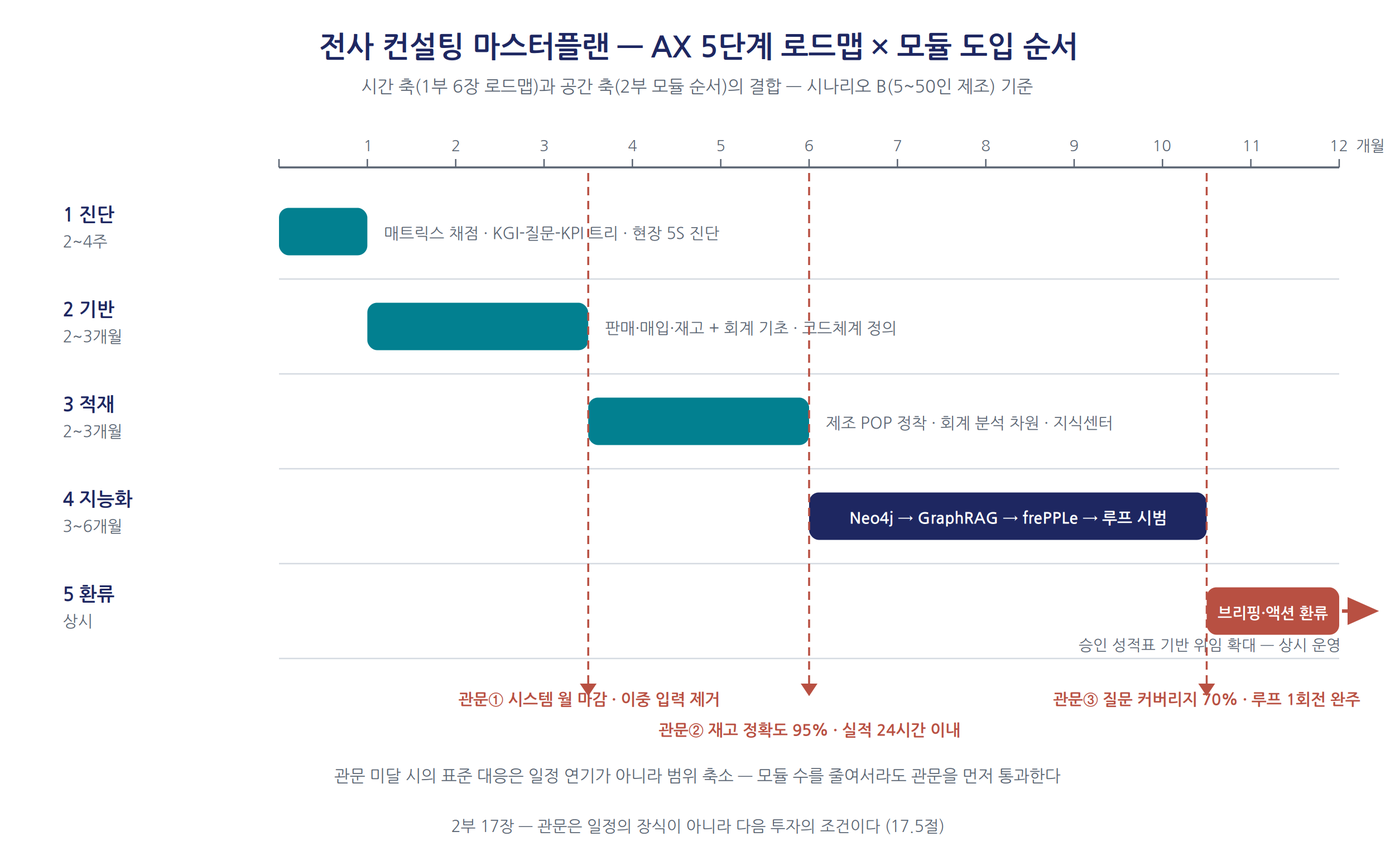
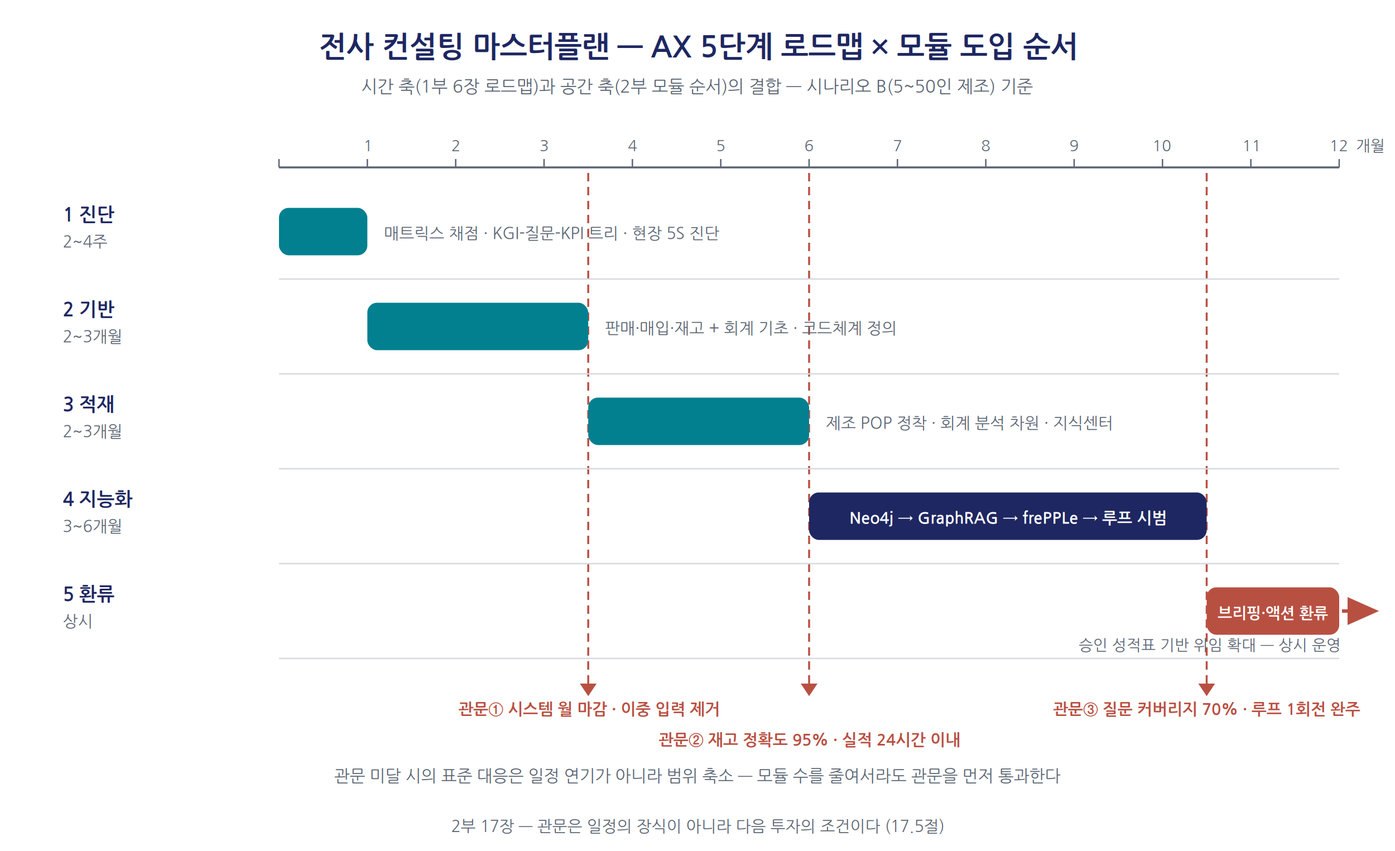
3순위 도해: 18~23장 12점 제작·삽입
Claude-Session: https://claude.ai/code/session_01A918KTHHAqBxQYk5d7SYyG

Changed region(s): [[0.312, 0.8013, 0.6864, 0.8938], [0.7488, 0.8013, 0.9672, 0.863]]

diff --git a/book/v2/figures/make_figures3_b1.py b/book/v2/figures/make_figures3_b1.py
@@ -326,7 +326,7 @@ def fig_122():
             else:
                 b.append(rrect(x, ry, 128, 76, ICE, NAVY, 1.2, 4))
                 b.append(text(x+64, ry+44, code, 12.5, NAVY, "bold"))
-    b.append(text(lx+150+2*136+64, ly+426, "선반마다 번지 라벨(바코드) 부착", 11.5, GRAY))
+    b.append(text(lx+lw/2, ly+426, "선반마다 번지 라벨(바코드) 부착", 11.5, GRAY))
     # 우: 위치 마스터 트리
     rx0, ry0, rw, rh = 630, 92, 290, 440
     b.append(rrect(rx0, ry0, rw, rh, LGRAY, GRAY, 1.4, 8))
@@ -395,22 +395,23 @@ def fig_123():
                          f'fill="none" stroke="#8A93A0" stroke-width="1.8" stroke-dasharray="4,3" marker-end="url(#ahG)"/>')
             b.append(text(px+pw-30, py+250, "왕복 3회", 11.5, ACC, "bold", anchor="end"))
         elif p == 1:  # 클러스터: 한 번의 S자 순회
-            path = (f'M{sx},{sy-16} L{px+246},{rack_y[2]+22} L{px+70},{rack_y[2]+22} '
-                    f'L{px+70},{rack_y[1]+22} L{px+246},{rack_y[1]+22} '
-                    f'L{px+246},{rack_y[0]+22} L{px+70},{rack_y[0]+22} '
-                    f'L{px+52},{rack_y[0]-10} L{px+52},{sy-4} L{sx-38},{sy-4}')
+            path = (f'M{sx+10},{sy-16} L{px+244},{sy-16} L{px+244},{rack_y[2]+22} '
+                    f'L{px+44},{rack_y[2]+22} L{px+44},{rack_y[1]+22} L{px+244},{rack_y[1]+22} '
+                    f'L{px+244},{rack_y[0]+22} L{px+44},{rack_y[0]+22} '
+                    f'L{px+30},{rack_y[0]+22} L{px+30},{sy-16} L{sx-40},{sy-16}')
             b.append(f'<path d="{path}" fill="none" stroke="{TEAL}" stroke-width="2.6" marker-end="url(#ahT)"/>')
-            b.append(rrect(px+222, sy-40, 48, 20, TEAL, TEAL, 1, 4))
-            b.append(text(px+246, sy-26, "카트", 10.8, WHITE, "bold"))
-            b.append(text(px+pw-30, py+250, "왕복 1회", 11.5, TEAL, "bold", anchor="end"))
+            midy = (rack_y[1]+rack_y[2])/2 + 22
+            b.append(rrect(px+222, midy-10, 44, 20, TEAL, TEAL, 1, 4))
+            b.append(text(px+244, midy+4, "카트", 10.8, WHITE, "bold"))
+            b.append(text(px+58, py+254, "왕복 1회", 11.5, TEAL, "bold", anchor="start"))
         else:  # 웨이브: 구역 분할 2인
-            b.append(line(px+pw/2, py+62, px+pw/2, py+232, GRAY, 1.2, "6,5"))
-            b.append(text(px+pw/2-8, py+240, "1구역", 10.8, GRAY, anchor="end"))
-            b.append(text(px+pw/2+8, py+240, "2구역", 10.8, GRAY, anchor="start"))
+            b.append(line(px+pw/2, py+74, px+pw/2, py+238, GRAY, 1.2, "6,5"))
+            b.append(text(px+pw/2-46, py+68, "1구역", 11, GRAY))
+            b.append(text(px+pw/2+46, py+68, "2구역", 11, GRAY))
             p1 = (f'M{sx-20},{sy-16} L{px+80},{rack_y[2]+22} L{px+80},{rack_y[0]+22} '
-                  f'L{px+134},{rack_y[0]+22} L{px+134},{sy-18}')
+                  f'L{px+128},{rack_y[0]+22} L{px+128},{sy-24}')
             p2 = (f'M{sx+20},{sy-16} L{px+216},{rack_y[2]+22} L{px+216},{rack_y[0]+22} '
-                  f'L{px+162},{rack_y[0]+22} L{px+162},{sy-18}')
+                  f'L{px+168},{rack_y[0]+22} L{px+168},{sy-24}')
             b.append(f'<path d="{p1}" fill="none" stroke="{TEAL}" stroke-width="2.4" marker-end="url(#ahT)"/>')
             b.append(f'<path d="{p2}" fill="none" stroke="{TEAL}" stroke-width="2.4" marker-end="url(#ahT)"/>')
             b.append(circle(px+80, rack_y[2]+22, 6, NAVY))

diff --git a/book/v2/figures/make_figures3_b2.py b/book/v2/figures/make_figures3_b2.py
@@ -383,6 +383,12 @@ def fig_172():
             b.append(text(X(m), 108, str(m), 11, GRAY))
     b.append(line(x0, 120, x1, 120, GRAY, 1.4))
     b.append(text(x1+22, 108, "개월", 11, GRAY))
+    gates = [(3.5, "관문① 시스템 월 마감 · 이중 입력 제거", 512),
+             (6, "관문② 재고 정확도 95% · 실적 24시간 이내", 534),
+             (10.5, "관문③ 질문 커버리지 70% · 루프 1회전 완주", 512)]
+    for m, lab, ly in gates:
+        b.append(line(X(m), 124, X(m), 490, ACC, 1.4, "6,4"))
+        b.append(f'<path d="M{X(m)-6},490 l6,9 l6,-9 z" fill="{ACC}"/>')
     rows = [
         ("1 진단", "2~4주", 0, 1, TEAL, "매트릭스 채점 · KGI-질문-KPI 트리 · 현장 5S 진단", "right"),
         ("2 기반", "2~3개월", 1, 3.5, TEAL, "판매·매입·재고 + 회계 기초 · 코드체계 정의", "right"),
@@ -407,12 +413,7 @@ def fig_172():
             b.append(text(bx+bw2+12, Y+39, lab, 11.5, GRAY, anchor="start"))
         if mode == "below":
             b.append(arrow(X(12)+2, Y+34, X(12)+26, Y+34, ACC, 2.5, "ahA", "5,4"))
-    gates = [(3.5, "관문① 시스템 월 마감 · 이중 입력 제거", 505),
-             (6, "관문② 재고 정확도 95% · 실적 24시간 이내", 527),
-             (10.5, "관문③ 질문 커버리지 70% · 루프 1회전 완주", 505)]
     for m, lab, ly in gates:
-        b.append(line(X(m), 124, X(m), 490, ACC, 1.4, "6,4"))
-        b.append(f'<path d="M{X(m)-6},490 l6,9 l6,-9 z" fill="{ACC}"/>')
         b.append(text(X(m), ly, lab, 11.5, ACC, "bold"))
     b.append(text(W/2, 560, "관문 미달 시의 표준 대응은 일정 연기가 아니라 범위 축소 — 모듈 수를 줄여서라도 관문을 먼저 통과한다", 12, GRAY))
     b.append(text(W/2, H-14, "2부 17장 — 관문은 일정의 장식이 아니라 다음 투자의 조건이다 (17.5절)", 11.5, GRAY))

diff --git a/book/v2/manuscript2/14_ch14.md b/book/v2/manuscript2/14_ch14.md
@@ -12,6 +12,8 @@
 
 ## 14.2 기능 해부: 데이터 입력 없는 회계
 
+![그림 14-1. "입력 없는 회계"의 자동화 파이프라인](figures/fig_141_no_input_acct.png){width=4.6in}
+
 Odoo 회계 모듈의 설계 철학은 "데이터 입력 없이 완성되는 회계"다(Odoo 공식 소개자료). 입력은 AI와 연동이 대신하고 사람은 승인과 판단만 담당하는 구조이며, 핵심 기능은 다음 네 축으로 요약된다.
 
 첫째, AI 청구서 캡처다. 공급업체 청구서를 스캔하거나 이메일로 수신하면 AI가 공급업체명·날짜·품목·금액·세액을 추출해 전표 초안을 자동 생성하며, 인식률은 98%로 소개된다(Odoo 공식 소개자료). 경비 처리도 같다. 영수증을 스마트폰으로 촬영하면 나머지는 AI가 처리하고, 개별 작업은 0.1초 이내에 완료된다고 한다. 담당자의 일은 입력이 아니라 자동 입력된 전표의 검토·승인으로 바뀐다. 둘째, 은행 연동과 자동 대사다. Odoo는 전 세계 28,000개 은행과 통합되어 명세서를 수기로 가져올 필요가 없으며, 거래 내역의 95%를 회계 자료에 자동 매칭한다(Odoo 공식 소개자료). 입금액과 미수 청구서, 출금액과 미지급 전표를 금액·날짜·적요 패턴으로 대조해 대사 후보를 제시하고, 반복 거래는 학습된 규칙으로 처리한다. 셋째, 실시간 보고다. 모든 거래가 실시간으로 원장에 반영되므로 손익계산서·재무상태표·현금흐름표·채권채무 연령표(aged receivable/payable)를 마감을 기다리지 않고 조회할 수 있고, 요약 수치에서 개별 분개까지 드릴다운이 가능하다. 넷째, 자동 후속조치다. 연체된 결제를 파악해 연체 일수에 따라 이메일·우편·SMS로 단계별 알림을 예약·전송한다(Odoo 공식 소개자료).
@@ -62,6 +64,8 @@ Odoo 회계 모듈의 설계 철학은 "데이터 입력 없이 완성되는 회
 **추론하는 단계.** 두 가지가 대표적이다. 하나는 자금 예측이다. 고객별 실제 결제 패턴(약정 조건이 아니라 학습된 습관), 미지급 일정, 반복 수익·비용의 계절성을 결합하면 13주 롤링 현금흐름 예측이 가능해지고, 자금의 저점과 시점이 사전에 보인다. 중소기업의 생존 지표인 자금 계획이 감(感)에서 데이터로 옮겨 가는 지점이다. 다른 하나는 이익 변동의 원인 분해다. "영업이익이 3천만 원 줄었다"는 결과를 매출 수량 효과, 판매 단가 효과, 원가율 효과, 판관비 효과로 분해하고, 원가율 효과는 다시 자재비·노무비·경비로, 자재비는 다시 품목과 공급업체 단가로 내려가는 역추적이다. 1부 5장 Analyze 단계의 언어로 말하면 층별(stratification)과 그래프 경로 탐색의 재무 적용이다. 이 분해가 담당자의 엑셀 작업이 아니라 원장과 분석 차원 위의 자동 질의가 되려면 14.3절의 정돈 — 계정과 분석 태그의 온톨로지적 일관성 — 이 전제되어야 한다. 보이는 재무는 대시보드 설정으로 되지만, 추론하는 재무는 데이터 정돈 없이는 결코 되지 않는다.
 
 ## 14.5 DMAIC 루프 시나리오: 현금전환주기 한 사이클
+
+![그림 14-2. 현금전환주기(CCC)의 구조 (수치는 14.5절 시나리오 예시)](figures/fig_142_ccc.png){width=4.6in}
 
 1부 5장의 DMAIC 데이터 루프를 재무의 대표 KPI인 현금전환주기(CCC)에 적용한 한 사이클을 가상의 중소 제조기업 시나리오로 재구성한다. CCC는 재고자산회전일수(DIO)+매출채권회수일수(DSO)−매입채무지급일수(DPO)로, 현금이 재고와 채권에 잠겨 있다가 돌아오기까지의 일수다. 등장 수치는 시나리오 예시다.
 

diff --git a/book/v2/manuscript2/13_ch13.md b/book/v2/manuscript2/13_ch13.md
@@ -12,6 +12,8 @@
 
 ## 13.2 기능 해부: 계획에서 실행, 품질에서 원가까지
 
+![그림 13-2. 제조 데이터 흐름 — 수주에서 원가까지](figures/fig_132_mfg_flow.png){width=4.6in}
+
 제조 IT의 국제 표준 참조 모델 ISA-95는 기업 시스템을 계층으로 나눈다. 레벨 4의 ERP가 주 단위 계획과 원가를, 레벨 3의 MES(제조실행시스템)가 시간·분 단위의 작업 지시와 실적을, 그 아래 제어 계층(PLC/SCADA)이 설비를 다룬다. 전통적 구축은 계층마다 별도 솔루션을 세우고 인터페이스로 잇지만, 중소기업에서 이 방식은 인터페이스 비용과 데이터 시차라는 두 벽에 부딪힌다. Odoo 제조 관리의 철학은 이 계층 구분을 단일 데이터베이스 안으로 접어 넣는 것이다. 공식 소개자료의 표현으로 "생산 계획부터 작업 현장 제어, 품질 관리, 유지보수까지 모든 제조 공정을 하나로 통합한 올인원 솔루션"이며, 태블릿에서 작업자가 완료를 누르는 순간 재공·자재 소진·노무비·원가·납기 예측이 동시에 갱신된다.
 
 **BOM과 MRP — 4장의 직계.** 자재명세서(BOM)는 1부 4장에서 본 구조형 부품표의 직역이다. 다단계 BOM(반제품 중첩), 키트, 제품 변형별 분기를 지원하며, 특기할 것은 부산물 처리다 — "부산물을 자재명세서에 통합하여 잔여 제품을 생산"(Odoo 공식 소개자료)하므로 수율과 잔재가 원가 변수인 업종에서 실질적이다. MRP 엔진은 판매 주문과 MPS로부터 소요를 전개하고 재고·발주 잔량을 공제해 제조 주문과 구매 제안을 생성한다 — 원전 시대에 연필과 계산기로 하던 부품전개·정미소요량 계산이 매일 밤 자동으로 도는 것이다. 4장에서 정리한 제번·추번의 지혜도 그대로 이식된다. 제조 주문 번호와 로트/시리얼, 분석 계정이 제번의 세 기능(진척·이력·원가의 끈)을 나누어 맡고, 공통 부품은 재주문 규칙과 MTS 라우트로 추번적 세계에서 돌며, 고객 사양품은 MTO 라우트의 제번적 세계에서 수주와 끈이 붙는다.
@@ -52,6 +54,8 @@
 셋째, 불량·고장 코드의 정돈이다. 두 작업자가 같은 베어링 고장을 한 명은 '소음', 한 명은 '진동'으로 적으면 시스템은 둘을 다른 사건으로 본다(1부 2장). 불량 코드와 고장 코드의 체계 — 너무 거칠지도 세밀하지도 않은, 현장이 3초 안에 고를 수 있는 수준의 분류 — 를 세우고 자유 서술을 보조 필드로 격하시키는 것이 정돈이다. 같은 사건이 같은 코드로 적힐 때 비로소 경험이 통계가 되고, 통계가 다음 절의 예측이 된다. 원인 코드 없는 품질 기록은 집계는 되어도 추론은 되지 않는다.
 
 ## 13.4 눈으로 보는 관리의 적용: 간트에서 예지보전까지
+
+![그림 13-3. frePPLe 유한능력 일정과 병목 워크센터 (화면 도식)](figures/fig_133_gantt_neck.png){width=4.6in}
 
 1부 3장의 3단계를 제조에 적용한다. 3장의 표에서 관리판=칸반 보드, 발송판=간트, 작업표=작업 주문·바코드, POP=태블릿이라는 대응을 이미 확립했으므로, 여기서는 운영의 관점으로 재구성한다.
 

diff --git a/book/v2/manuscript3/20_ch20.md b/book/v2/manuscript3/20_ch20.md
@@ -39,6 +39,8 @@
 
 ## 20.3 PTGDA: seed에서 통치까지의 상태 전이
 
+![그림 20-2. PTGDA 상태 전이도](figures/fig_202_ptgda_states.png){width=4.6in}
+
 TA가 신호에 이름을 붙였다면, PTGDA(Progressive Tacit-to-Governed Discovery & Adoption)는 그 신호를 확정된 지식으로 키운다. 이름을 풀면 방법론 전체가 보인다. 암묵적인 것(Tacit)에서 통치되는 것(Governed)으로, 발견(Discovery)에서 채택(Adoption)으로, 그리고 그 이행은 단번이 아니라 점진적(Progressive)이다. 운영 매뉴얼 v9의 부록 D가 기술하는 상태 전이를 그대로 옮긴다.
 
 > PTGDA의 상태 전이는 다음 순서를 따릅니다: ① seeds 테이블에 TA 코드와 함께 신호 축적 → ② 해당 TA와 연결된 SEED_HYPOTHESES가 triggered 상태로 전환 → ③ 6Station 인터뷰(verify 호출)로 confirm/refute 판정이 누적되며 confirm_count/total_count 갱신 → ④ rate가 임계값(기본 70%, 최소 3회)을 넘으면 evidence_status가 confirmed로 전환(입자화) → ⑤ confirmed 순간 GL에 구체적 계정(품질손실비/병목손실비/설비손실비/재고손실비/관리손실비)으로 실제 반영되며, 반복 확인 횟수를 근거로 연환산 손실 추정치가 함께 산출됨 → ⑥ 확정된 사각지대는 Station8에서 Agent 제안으로 승격 가능하며, 채택 시 실제 Loop 인스턴스가 생성되어 DTF 기한 내 진행 상태를 추적. — JEDAIX 운영 매뉴얼 v9, 부록 D
@@ -94,6 +96,8 @@ mfg:InventoryBufferAdjustment
 주목할 것은 이 스키마의 어휘가 어디서 왔는가이다. subClassOf 관계는 5 Space × 6 Station의 좌표에서, properties는 Universal Metadata 9속성에서 파생된다. 즉 OWL Class는 허공에서 설계되는 것이 아니라, 19장의 Frame(모든 회사에 공통인 메타데이터 스키마)이 제공하는 어휘 위에, 현장의 대화가 채워 넣은 의미가 결합해 생성된다. 정적 구조 위에서 동작하는 조건-결과 규칙은 SWRL(Semantic Web Rule Language)로 표현된다 — "품질 이의와 출하 압박이 3회 반복되면 TA06을 등록하고 긴급 Loop를 발동하라"는 서술이 형식 규칙이 되는 것이다. 이로써 노나카의 표출화는 하나의 파이프라인이 되었다. 발화(암묵지)에서 Chunk로, Chunk에서 좌표로, 좌표에서 축으로, 축에서 Class와 Rule(형식지)로 — 그리고 21장에서 보겠지만, Class와 Rule에서 실행 코드로.
 
 ## 20.5 LLM의 자리: 한 문장이 온톨로지가 되는 여정
+
+![그림 20-3. 한 문장의 여정 — 발화에서 OWL 확정까지](figures/fig_203_sentence_journey.png){width=4.6in}
 
 이 파이프라인에서 LLM은 어디에 있는가. 답은 명확하다 — 번역 계층이다. 온톨로지 문서는 "OWL·SWRL은 정확하지만 사람이 직접 작성하기는 어렵"기 때문에 "LLM은 6Station의 자연어 대화를 이 형식 구조로 정렬하는 번역 계층 역할"을 한다고 규정한다(정인호, 2026). 1부 5장의 무한 루프에서 LLM이 DMAIC 각 단계를 잇는 오케스트레이터였다면, JEDAIX에서 LLM은 자연어와 온톨로지 사이의 통역사다. 두 역할의 공통점은 LLM이 판단의 주체가 아니라 변환과 연결의 주체라는 것이다.
 

diff --git a/book/v2/manuscript3/23_ch23.md b/book/v2/manuscript3/23_ch23.md
@@ -6,6 +6,8 @@
 
 ## 23.1 사례 연구 1 — 반복되는 품질 클레임, 그리고 안전재고의 진실
 
+![그림 23-1. 안전재고 사례 타임라인](figures/fig_231_case_timeline.png){width=4.6in}
+
 ### 배경: 전부 "합격"인데 클레임은 반복된다
 
 A정밀부품㈜은 자동차 부품을 생산하는 중견 제조업체다. 최근 두 달 동안 고객사로부터 품질 클레임이 세 건 접수되었는데, ERP 데이터를 아무리 들여다봐도 원인이 나오지 않았다. 품질 검사 기록에는 전부 "합격"으로 찍혀 있었기 때문이다. 이것이 18장에서 정의한 경영 사각지대의 전형이다. 형식지의 기록은 완벽한데 손실은 반복된다면, 원인은 기록 바깥 — 사람들의 관행과 눈치와 암묵적 판단 — 에 있다.
@@ -48,6 +50,8 @@ A정밀부품㈜은 자동차 부품을 생산하는 중견 제조업체다. 최
 
 ## 23.2 사례 연구 2 — 조립 공정의 병목: 계산할 수 없는 것을 사람에게 넘기다
 
+![그림 23-2. 조립 병목 사례 — TOC 전후 비교](figures/fig_232_toc_before_after.png){width=4.6in}
+
 ### 배경과 대화: 가동률은 정상인데 납기가 늦는다
 
 두 번째 사례는 성격이 다르다. A정밀부품㈜의 생산관리자는 조립 공정의 납기 지연이 잦아지고 있다고 느꼈지만, 생산 현황판의 가동률 수치만 봐서는 이상이 없어 보였다. 6 Station의 질문 — "최근 조립 공정에 계획대로 안 되는 일이 자주 있었나요?" — 에 생산관리자가 답한다.
@@ -67,6 +71,8 @@ A정밀부품㈜은 자동차 부품을 생산하는 중견 제조업체다. 최
 사례 1은 자동 조정형이다 — Agent가 계산하고 담당자가 승인했다. 사례 2는 경영판단형이다 — 시스템은 정량 근거까지만 만들고 결정은 경영진에게 넘겼다. 이 대비가 보여주는 것은 JEDAIX가 자동화할 수 있는 것과 사람이 결정해야 하는 것을 온톨로지 층위에서부터 구분해 처리한다는 사실이며(JEDAIX 온톨로지 아키텍처 문서 v9), 이것이 22장에서 방법론의 안전핀이라 불렀던 3~4단계의 분기다. 동시에 두 사례는 같은 뼈대를 공유한다. 현장의 위화감 → 반복 확인과 확신도 축적 → 확정과 정량 근거 → 실행 가능한 대안(자동 조정 또는 결정 요청) → 표준 흐름 반영. 문제의 성격 — 재고 정책과 공정 병목이라는 전혀 다른 주제 — 과 무관하게 같은 5단계가 관통했다는 것, 이것이 두 사례를 나란히 읽을 때 얻는 방법론적 결론이다.
 
 ## 23.3 부문별 성과 메커니즘: 사각지대 → 발굴 → 실행 → KPI
+
+![그림 23-3. 성과 수치 한눈에](figures/fig_233_results_chart.png){width=4.6in}
 
 이제 두 번째 층위, 실측 수치의 세계로 간다. 아래 네 부문은 "사각지대 → 온톨로지 발굴 → 실행 → KPI 성과"의 공통 프레임으로 재구성했다. 각 부문의 성과 수치는 스마트공장·통합 ERP 도입의 공개 실측치이며, 발굴·실행 열은 그 기록 위에 3부의 온톨로지 메커니즘을 얹었을 때의 작동 경로다.
 

diff --git a/book/v2/manuscript3/22_ch22.md b/book/v2/manuscript3/22_ch22.md
@@ -6,6 +6,8 @@
 
 ## 22.1 관통하는 문제해결 5단계: 전사 AX 방법론으로의 일반화
 
+![그림 22-1. 관통 문제해결 5단계](figures/fig_221_five_steps.png){width=4.6in}
+
 19~21장에서 따라온 JEDAIX의 모든 화면과 알고리즘은, 문제의 성격과 무관하게 하나의 순서를 반복한다. 매뉴얼이 두 개의 사례 — 안전재고와 조립 병목, 23장에서 심층 분석한다 — 끝에 스스로 요약한 그 순서가 이 장 서두의 인용문이다. 이를 방법론의 언어로 다시 쓰면 다음의 다섯 단계가 된다.
 
 | 단계 | 이름 | 하는 일 | 주체 | 산출물 |
@@ -53,6 +55,8 @@
 대응의 정밀도는 표가 보여주는 것 이상이다. 1부 5장의 Analyze는 "탐색적 가설 생성과 확증적 가설 검정의 교대"(De Mast & Lokkerbol, 2012)로 정의되었는데, PTGDA의 상태 전이 — seeds 축적(탐색) → SEED_HYPOTHESES 전환 → verify 호출의 confirm/refute 누적(검정) → 임계값 돌파 시 확정 — 는 그 교대 구조를 알고리즘으로 옮긴 것이다. 특히 "맞다/틀리다"의 이분법 대신 연속 확신도와 이진 확정을 동시에 유지하는 이중 표현(19~20장)은, 통계적 사고의 핵심 — 판단을 유보하는 중간 상태의 관리 — 을 온톨로지 성숙도의 표현으로 제도화한 것이다. Control 쪽의 대응도 마찬가지다. 1부 5장이 "표준화가 문서로 저장되면 소멸하고 시스템의 상태로 저장되면 지속된다"고 했던 원칙은, 조정된 안전재고가 바인더가 아니라 O2C 프로세스의 실행변수로 반영되는 5단계에서 그대로 구현된다. 그리고 1부 5장의 무한 루프가 "Control은 사이클의 끝이 아니라 다음 사이클의 센서"라고 했던 명제는, War Room에서 발견된 이상 신호가 다시 6 Station의 진단 대상으로 돌아가는 순환(21장)의 정의 그 자체다. 요컨대 JEDAIX는 1부 5장에서 설계 원리로 제시한 LLM 무한 루프의 한 구현이며, 이 대응이 있기에 1부의 방법론 훈련을 거친 조직은 JEDAIX의 화면들을 처음 보아도 "이것이 루프의 어느 단계인가"를 판별할 수 있다.
 
 ## 22.4 도입 유형별 시나리오: 두 개의 출발점
+
+![그림 22-2. 도입 유형 2경로](figures/fig_222_two_paths.png){width=4.6in}
 
 18장에서 확인했듯 온톨로지 메커니즘 툴의 가치는 두 종류의 조직에게 서로 다른 방식으로 성립한다. ERP가 없는 조직에게는 표준 프로세스와 데이터 기반을 대화만으로 처음 세우는 가치, ERP가 있는 조직에게는 시스템이 기록하지 못하는 암묵 영역을 통합하는 가치다. 도입 시나리오도 둘로 갈라진다.
 

diff --git a/book/v2/manuscript3/18_ch18.md b/book/v2/manuscript3/18_ch18.md
@@ -68,6 +68,8 @@
 
 ## 18.5 온톨로지 메커니즘이 채우는 자리: 3부의 지도
 
+![그림 18-2. 3부 전체 지도 — 사각지대에서 성과까지](figures/fig_182_part3_map.png){width=4.6in}
+
 2부 15장의 결핍 목록으로 되돌아가자. Analyze의 결핍은 온톨로지의 부재에서 왔다 — Odoo AI의 RAG는 문서를 텍스트 유사도로 검색할 뿐, "이 불량은 어느 자재 로트, 어느 공정 조건, 어느 관행과 연결되는가"라는 관계의 의미를 추론하지 못한다. Improve의 결핍은 실험장의 부재에서 왔다 — 대책 후보를 서술할 수는 있으나 그 효과를 실행 전에 정량 비교하지 못한다. 2부 16장은 이 결핍을 채우는 부스터 아키텍처 — 온톨로지 지식그래프, 시뮬레이션, 워크플로 자동화 — 의 구조를 제시했다. 3부가 더하는 것은 그 구조를 실제 기업에서 작동시키는 방법론이다. 온톨로지는 기술이 아니라 구축 과정이 어려운 것이며, 특히 그 원재료가 형식지가 아니라 사람들의 머릿속 암묵지일 때, "어떻게 발굴하여 어떻게 형식 구조로 확정하고 어떻게 실행으로 연결하는가"의 알고리즘이 성패를 가른다.
 
 JEDAIX 방법론의 전체상을 미리 한 문단으로 요약하면 이렇다. 업무가 일어나는 공간을 5 Space로 구조화하고 문제가 처리되는 흐름을 6 Station으로 흐름화한 워크벤치 위에서(19장), 대화형 진단이 발굴한 희미한 신호를 TA(Tacit Anomaly) 분류체계로 포착하고 PTGDA 알고리즘이 반복 확인을 통해 확신도를 쌓아 온톨로지 Class로 확정하며(20장), 확정된 온톨로지는 Skill-Loop-Harness와 Workflow 빌더를 거쳐 실행 Agent와 표준 프로세스가 되고 War Room이 그 실행을 감시하여 다시 진단으로 환류한다(21장). 이 전체가 하나의 도입 방법론으로 일반화되고(22장), 구체적 성과 사례로 실증된다(23장). 각 단계마다 HITL(Human-in-the-Loop) — 사람의 승인 게이트 — 이 구조적으로 박혀 있다는 점에서, 이것은 1부 5장의 무한 루프 설계 원칙을 암묵지 영역에서 구현한 것이기도 하다.

diff --git a/book/v2/manuscript3/21_ch21.md b/book/v2/manuscript3/21_ch21.md
@@ -34,6 +34,8 @@
 
 ## 21.3 War Room: 무한 루프의 관제탑
 
+![그림 21-1. Workflow 운영 사이클](figures/fig_211_workflow_cycle.png){width=4.6in}
+
 설계와 등록과 실행은 사이클의 절반이다. JEDAIX Workspace는 Workflow를 다섯 단계의 순환 구조로 운영한다.
 
 ```
@@ -55,6 +57,8 @@
 이 환류의 배관이 20장에서 언급한 Explicit-Implicit Bridge다. WMS·TMS·JIT가 만드는 명시적 이벤트 — 재고부족, ROP 돌파, TOC 제약위반 — 는 registerExplicitGap() 함수를 통해 자동으로 seeds 테이블에 등록되어 6 Station의 확인 대상이 되고, 확정·해소되면 syncGapResolutions()가 갭 상태를 resolved로 전환한다. 형식지의 세계에서 발생한 이상이 암묵지 발굴의 입력이 되고, 발굴의 결과가 다시 형식지의 파라미터로 돌아온다 — 명시와 암묵 사이의 이 순환이야말로 JEDAIX가 "전문 WMS/TMS 벤더와 기능적으로 경쟁하지 않고도 차별화된 가치를 갖는 핵심 근거"다(JEDAIX 운영 매뉴얼 v9, 부록 E).
 
 ## 21.4 InventoryBufferAgent: 알림으로 끝나지 않는 실행
+
+![그림 21-2. InventoryBufferAgent 실행 순서](figures/fig_212_buffer_agent.png){width=4.6in}
 
 이제 실행의 실제 모습을 보자. 20장의 사례에서 TA06(KPI 충돌)으로 확정된 품질-납기 충돌 패턴은 알림 한 줄로 끝나지 않았다. InventoryBufferAgent라는 실행 주체(Skill)가 네 단계를 자동으로 수행한다. 첫째, 증거 정량화 — 이 유형의 신호가 최근 얼마나 자주 발생했는지 수치화한다. 둘째, 보정계수 계산 — 그 수치를 근거로 안전재고와 재주문점(ROP)을 얼마나 올려야 하는지 구체적 숫자를 계산한다. 셋째, Digital Twin 가상 시뮬레이션 — 보정을 적용하면 재고 소진 예측이 어떻게 달라지는지 미리 보여주되, 이 단계에서 실제 시스템은 전혀 바뀌지 않는다. 넷째, 사람의 승인(HITL) — 담당자가 시뮬레이션 결과를 보고 승인해야만 실제 값이 바뀐다.
 

diff --git a/book/v2/manuscript2/15_ch15.md b/book/v2/manuscript2/15_ch15.md
@@ -22,6 +22,8 @@ Odoo 19에서 AI는 독립 앱으로 승격되며 방향이 분명해졌다(Odoo
 
 ## 15.3 지식센터, 암묵지의 형식지화 거점: SECI와 지식의 3정5S
 
+![그림 15-1. SECI 나선과 지식센터·Odoo AI](figures/fig_151_seci.png){width=4.6in}
+
 지식센터의 이론적 자리는 노나카의 SECI 모델이다. 조직 지식은 암묵지와 형식지의 네 가지 변환 — 공동화(Socialization, 암묵지→암묵지), 표출화(Externalization, 암묵지→형식지), 연결화(Combination, 형식지→형식지), 내면화(Internalization, 형식지→암묵지) — 의 나선으로 창출되며(Nonaka, 1994; Nonaka & Takeuchi, 1995), 그 변환이 일어나는 공유된 맥락이 장(場, ba)이다(Nonaka & Konno, 1998). 두 앱을 이 나선에 대응시키면 다음과 같다.
 
 | SECI 단계 | 지식 전환 | Odoo에서의 구현 |
